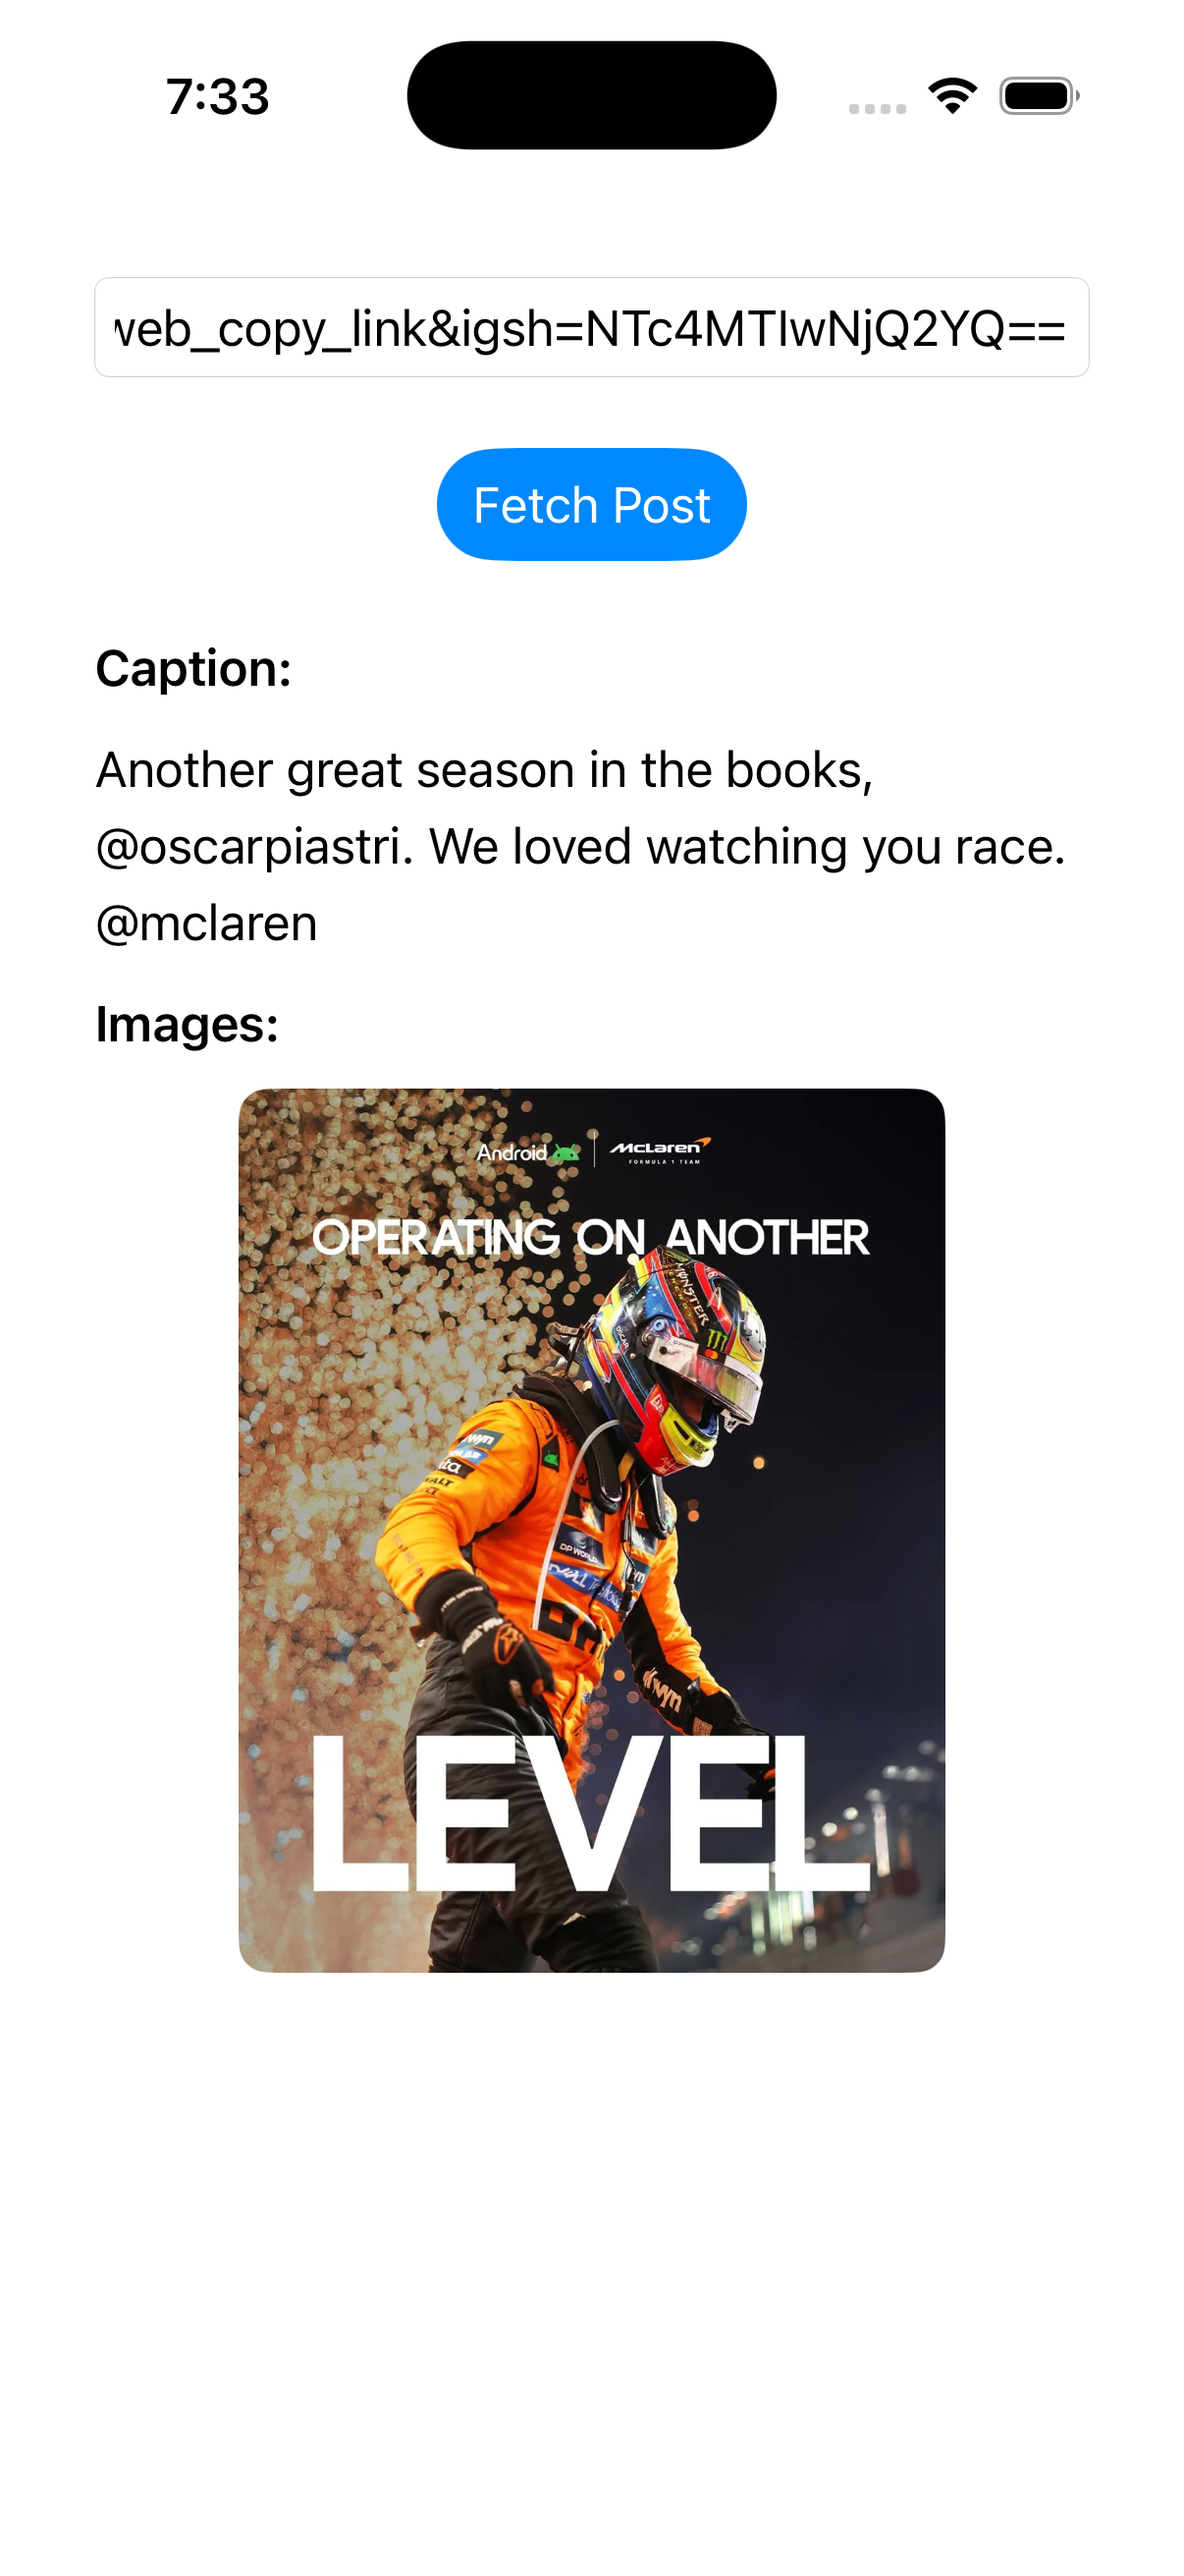
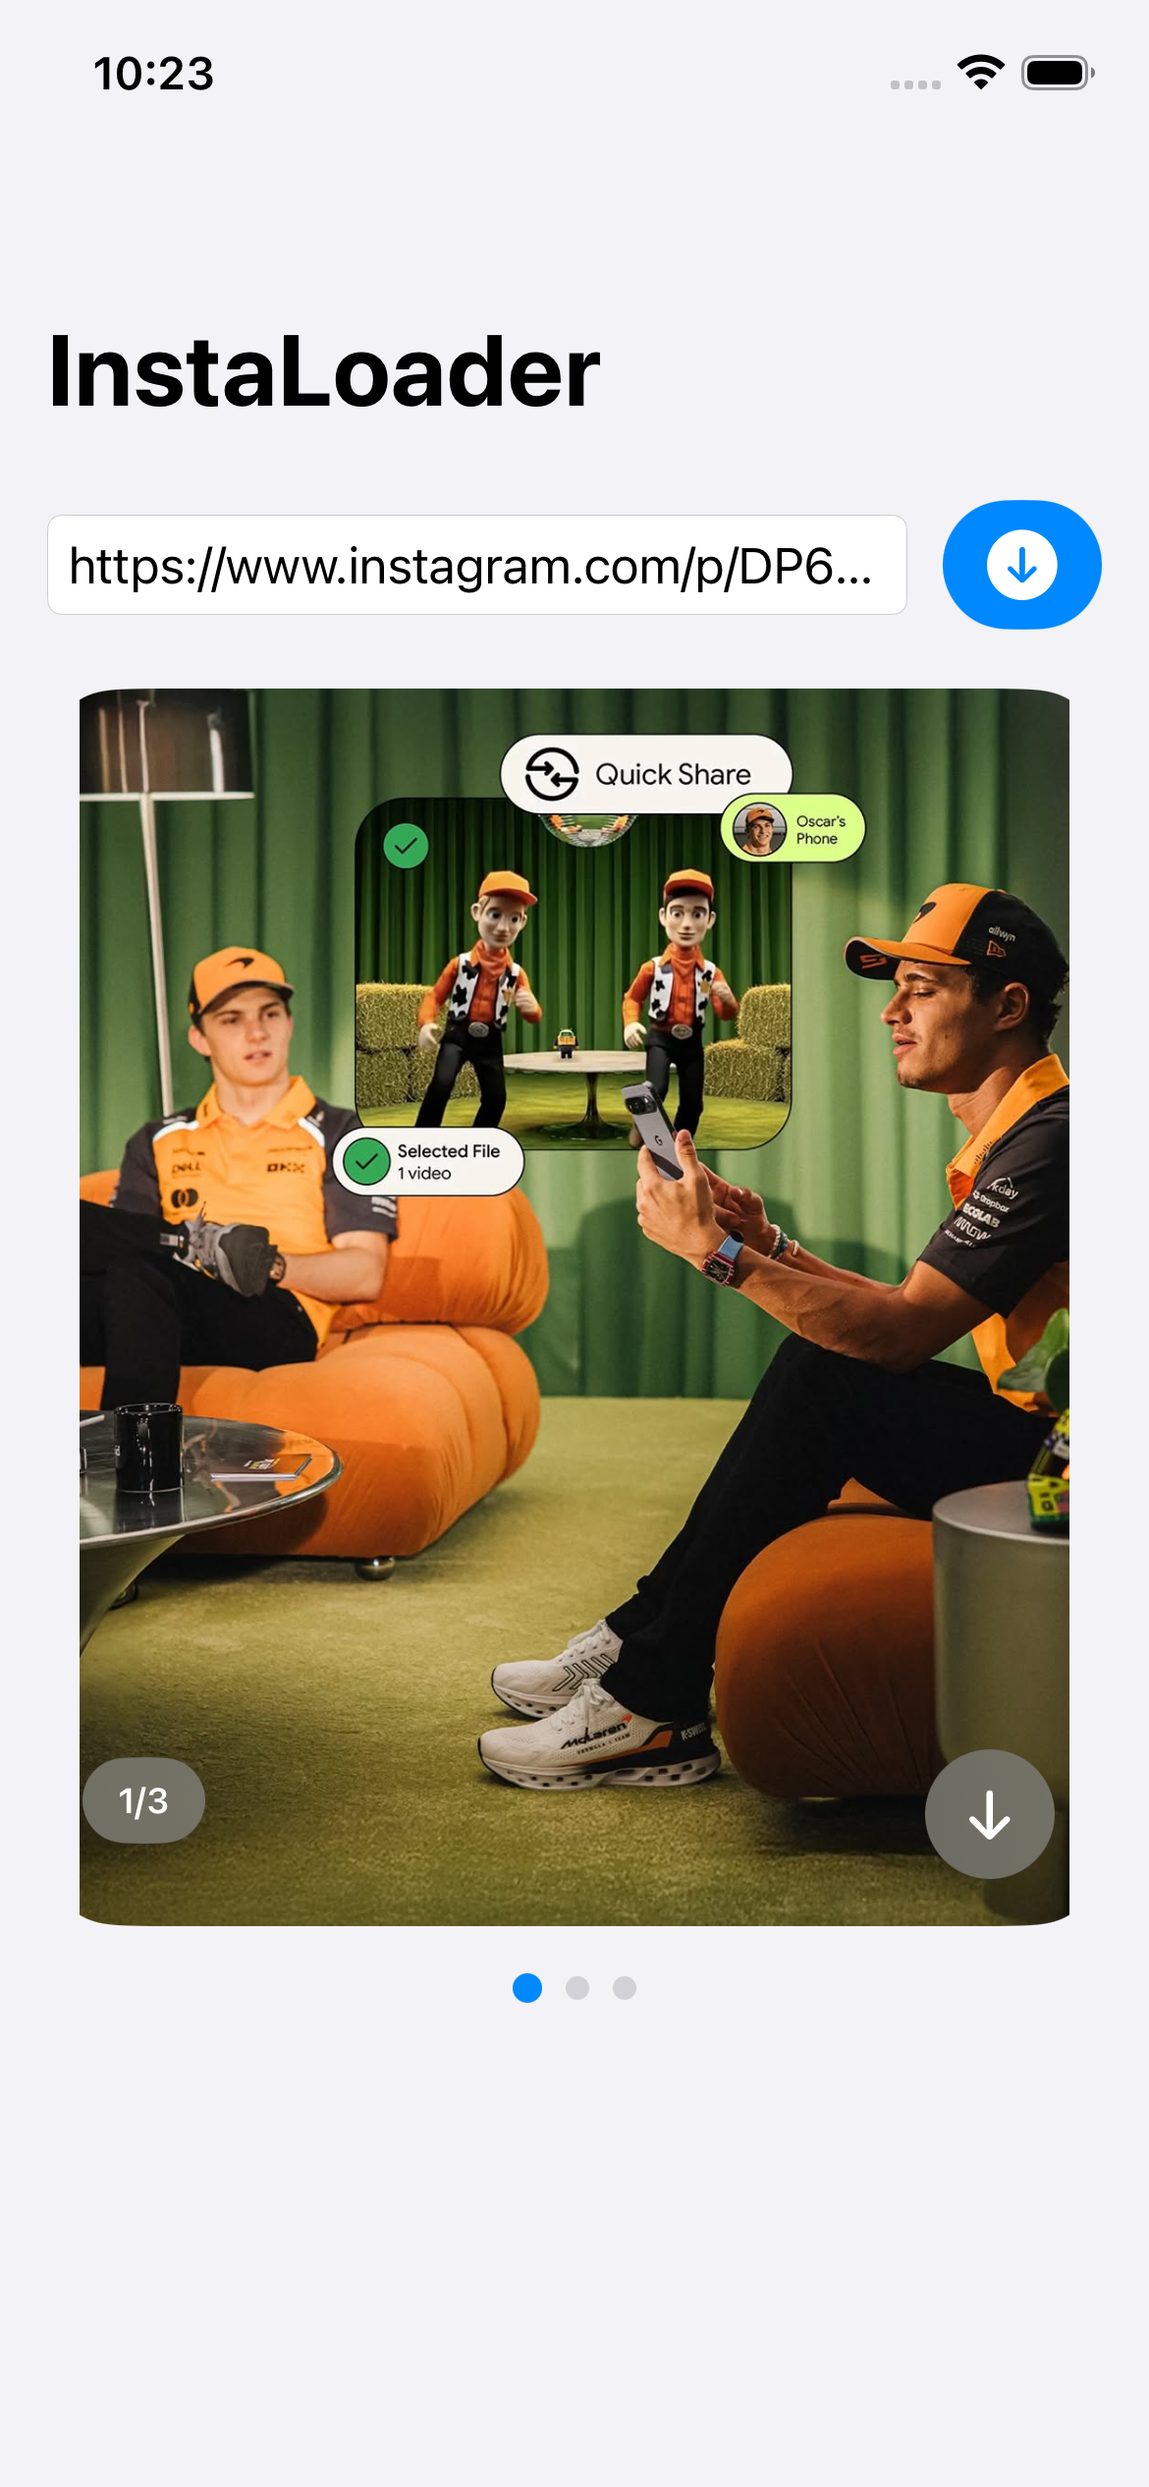
iOS: Rewamping the design like android

diff --git a/iosApp/iosApp/ContentView.swift b/iosApp/iosApp/ContentView.swift
@@ -1,119 +1,264 @@
+//
+//  ContentView.swift
+//  iosApp
+//
 
 import SwiftUI
 import Shared
 
 struct ContentView: View {
+
+    @StateObject private var viewModel = InstaViewModel()
+
     @State private var shortCode = ""
-    
-    // State to hold the fetched data
-    @State private var post: InstaPost? = nil
-    @State private var isLoading = false
-    @State private var errorMessage: String? = nil
-    
-    // State for the pager
     @State private var currentPage = 0
-    
-    // Initialize the repository
-    private let repository = InstaRepository()
-    
+
     var body: some View {
-        VStack {
-            HStack {
-                TextField("Enter insta url", text: $shortCode)
-                    .textFieldStyle(RoundedBorderTextFieldStyle())
-                
-                Button(action: {
-                    fetchInstagramPost()
-                }) {
-                    Image(systemName: "arrow.down.circle.fill")
-                        .font(.system(size: 30))
-                        .foregroundColor((isLoading || shortCode.isEmpty) ? .gray : .blue)
-                }
-                .disabled(isLoading || shortCode.isEmpty)
-            }
-            .padding()
-            
-            if isLoading {
-                ProgressView("Fetching...")
-                    .padding()
-            }
-            
-            if let error = errorMessage {
-                Text(error)
-                    .foregroundColor(.red)
-                    .font(.caption)
-                    .padding()
-            }
-            
-            // Display Results
-            if let post = post {
-                VStack(spacing: 12) {
-                    
-                    // MARK: - View Pager (TabView)
-                    ZStack(alignment: .bottomLeading) {
-                        TabView(selection: $currentPage) {
-                            ForEach(0..<post.images.count, id: \.self) { index in
-                                AsyncImage(url: URL(string: post.images[index])) { image in
-                                    image.resizable()
-                                        .scaledToFit()
-                                        .padding(.horizontal, 12)
-                                } placeholder: {
+
+        NavigationStack {
+
+            ScrollView {
+
+                VStack(spacing: 20) {
+
+                    // MARK: - Input Section
+                    HStack(spacing: 12) {
+
+                        TextField(
+                            "Paste Instagram URL",
+                            text: $shortCode
+                        )
+                        .textFieldStyle(.roundedBorder)
+                        .textInputAutocapitalization(.never)
+                        .autocorrectionDisabled()
+
+                        Button {
+
+                            currentPage = 0
+
+                            viewModel.fetchPost(
+                                url: shortCode
+                            )
+
+                        } label: {
+
+                            ZStack {
+
+                                if viewModel.isLoading {
+
                                     ProgressView()
+                                        .tint(.white)
+
+                                } else {
+
+                                    Image(
+                                        systemName: "arrow.down.circle.fill"
+                                    )
+                                    .font(.system(size: 24))
                                 }
-                                .tag(index) // Important for selection binding
                             }
+                            .frame(width: 30, height: 30)
                         }
-                        .tabViewStyle(PageTabViewStyle(indexDisplayMode: .never)) // We build custom dots
-                        .frame(height: 400)
-                        .background(Color.black.opacity(0.05))
-                        .cornerRadius(12)
-                        
-                        // Page Count Overlay (e.g., 1/5)
-                        Text("\(currentPage + 1)/\(post.images.count)")
-                            .font(.caption2)
-                            .padding(8)
-                            .background(Circle()
-                                .fill(Color.black.opacity(0.6)))
-                            .foregroundColor(.white)
-                            .padding(12)
+                        .buttonStyle(.borderedProminent)
+                        .disabled(
+                            viewModel.isLoading ||
+                            shortCode.isEmpty
+                        )
                     }
-                    
-                    // MARK: - Dot Indicators
-                    HStack(spacing: 8) {
-                        ForEach(0..<post.images.count, id: \.self) { index in
-                            Circle()
-                                .fill(currentPage == index ? Color.blue : Color.gray.opacity(0.5))
-                                .frame(width: 8, height: 8)
-                                .animation(.spring(), value: currentPage)
+                    .padding(.horizontal)
+
+                    // MARK: - Error
+                    if let errorMessage = viewModel.errorMessage {
+
+                        Label(
+                            errorMessage,
+                            systemImage: "exclamationmark.triangle.fill"
+                        )
+                        .font(.footnote)
+                        .foregroundStyle(.red)
+                        .frame(
+                            maxWidth: .infinity,
+                            alignment: .leading
+                        )
+                        .padding()
+                        .background(.red.opacity(0.08))
+                        .clipShape(
+                            RoundedRectangle(
+                                cornerRadius: 16,
+                                style: .continuous
+                            )
+                        )
+                        .padding(.horizontal)
+                    }
+
+                    // MARK: - Content
+                    if let post = viewModel.post {
+
+                        VStack(spacing: 16) {
+
+                            // MARK: - Image Pager
+                            ZStack(alignment: .bottomLeading) {
+
+                                TabView(selection: $currentPage) {
+
+                                    ForEach(
+                                        0..<post.images.count,
+                                        id: \.self
+                                    ) { index in
+
+                                        let imageUrl = post.images[index]
+
+                                        ZStack(
+                                            alignment: .bottomTrailing
+                                        ) {
+
+                                            AsyncImage(
+                                                url: URL(
+                                                    string: imageUrl
+                                                )
+                                            ) { phase in
+
+                                                switch phase {
+
+                                                case .success(let image):
+
+                                                    image
+                                                        .resizable()
+                                                        .scaledToFit()
+
+                                                case .failure(_):
+
+                                                    ContentUnavailableView(
+                                                        "Image unavailable",
+                                                        systemImage: "photo"
+                                                    )
+
+                                                default:
+
+                                                    ProgressView()
+                                                }
+                                            }
+                                            .frame(
+                                                maxWidth: .infinity
+                                            )
+                                            .frame(height: 420)
+                                            .background(
+                                                Color(
+                                                    uiColor: .secondarySystemBackground
+                                                )
+                                            )
+
+                                            // MARK: - Download Button
+                                            Button {
+
+                                                viewModel.downloadMedia(
+                                                    url: imageUrl
+                                                )
+
+                                            } label: {
+
+                                                Image(
+                                                    systemName: "arrow.down"
+                                                )
+                                                .font(
+                                                    .system(
+                                                        size: 18,
+                                                        weight: .semibold
+                                                    )
+                                                )
+                                                .foregroundStyle(.white)
+                                                .frame(
+                                                    width: 44,
+                                                    height: 44
+                                                )
+                                                .background(
+                                                    .ultraThinMaterial
+                                                )
+                                                .background(
+                                                    Color.black.opacity(0.25)
+                                                )
+                                                .clipShape(Circle())
+                                            }
+                                            .padding(16)
+                                        }
+                                        .clipShape(
+                                            RoundedRectangle(
+                                                cornerRadius: 24,
+                                                style: .continuous
+                                            )
+                                        )
+                                        .padding(.horizontal)
+                                        .tag(index)
+                                    }
+                                }
+                                .tabViewStyle(
+                                    .page(
+                                        indexDisplayMode: .never
+                                    )
+                                )
+                                .frame(height: 420)
+
+                                // MARK: - Page Count
+                                Text(
+                                    "\(currentPage + 1)/\(post.images.count)"
+                                )
+                                .font(
+                                    .caption.weight(.semibold)
+                                )
+                                .foregroundStyle(.white)
+                                .padding(.horizontal, 12)
+                                .padding(.vertical, 6)
+                                .background(.ultraThinMaterial)
+                                .background(
+                                    Color.black.opacity(0.3)
+                                )
+                                .clipShape(Capsule())
+                                .padding(28)
+                            }
+
+                            // MARK: - Indicators
+                            HStack(spacing: 8) {
+
+                                ForEach(
+                                    0..<post.images.count,
+                                    id: \.self
+                                ) { index in
+
+                                    Circle()
+                                        .fill(
+                                            currentPage == index
+                                            ? Color.accentColor
+                                            : Color.secondary.opacity(0.3)
+                                        )
+                                        .frame(
+                                            width: currentPage == index
+                                            ? 10
+                                            : 8,
+                                            height: currentPage == index
+                                            ? 10
+                                            : 8
+                                        )
+                                }
+                            }
+                            .animation(
+                                .spring(
+                                    response: 0.3,
+                                    dampingFraction: 0.7
+                                ),
+                                value: currentPage
+                            )
                         }
                     }
                 }
+                .padding(.vertical)
             }
-            
-            Spacer()
-        }
-        .frame(maxWidth: .infinity, maxHeight: .infinity, alignment: .top)
-    }
-    
-    // Function to call the KMP repository
-    private func fetchInstagramPost() {
-        isLoading = true
-        errorMessage = nil
-        currentPage = 0 // Reset pager on new fetch
-        
-        Task {
-            do {
-                let result = try await repository.getPost(url: shortCode)
-                await MainActor.run {
-                    self.post = result
-                    self.isLoading = false
-                }
-            } catch {
-                await MainActor.run {
-                    self.errorMessage = "Error: \(error.localizedDescription)"
-                    self.isLoading = false
-                }
-            }
+            .navigationTitle("InstaLoader")
+            .navigationBarTitleDisplayMode(.large)
+            .background(
+                Color(
+                    uiColor: .systemGroupedBackground
+                )
+            )
         }
     }
 }
